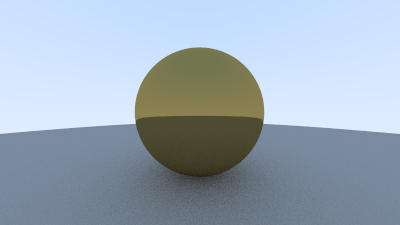
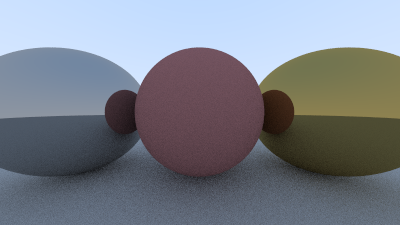
trace metallic and lambertian spheres

diff --git a/src/main.rs b/src/main.rs
@@ -27,8 +27,8 @@ fn main() {
     let sphere = Sphere {
         center: vec![0.0,0.0,-1.0],
         radius: 0.5,
-        albedo: vec![0.8, 0.6, 0.2],
-        material: world::Material::Metal,
+        albedo: vec![0.7, 0.3, 0.3],
+        material: world::Material::Lambertian,
     };
     let bg_sphere = Sphere {
         center: vec![0.0, -100.5,-1.0],
@@ -36,8 +36,20 @@ fn main() {
         albedo: vec![0.8, 0.8, 0.8],
         material: world::Material::Lambertian,
     };
+    let right_sphere = Sphere {
+        center: vec![1.0,0.0,-1.0],
+        radius: 0.5,
+        albedo: vec![0.8, 0.6, 0.2],
+        material: world::Material::Metal,
+    };
+    let left_sphere = Sphere {
+        center: vec![-1.0,0.0,-1.0],
+        radius: 0.5,
+        albedo: vec![0.8, 0.8, 0.8],
+        material: world::Material::Metal,
+    };
 
-    let world: Vec<Sphere> = vec![sphere, bg_sphere];
+    let world: Vec<Sphere> = vec![sphere, bg_sphere, right_sphere, left_sphere];
 
     (0..image_height).into_par_iter().rev().for_each(|j| {
         (0..image_width).into_par_iter().for_each(|i| {
